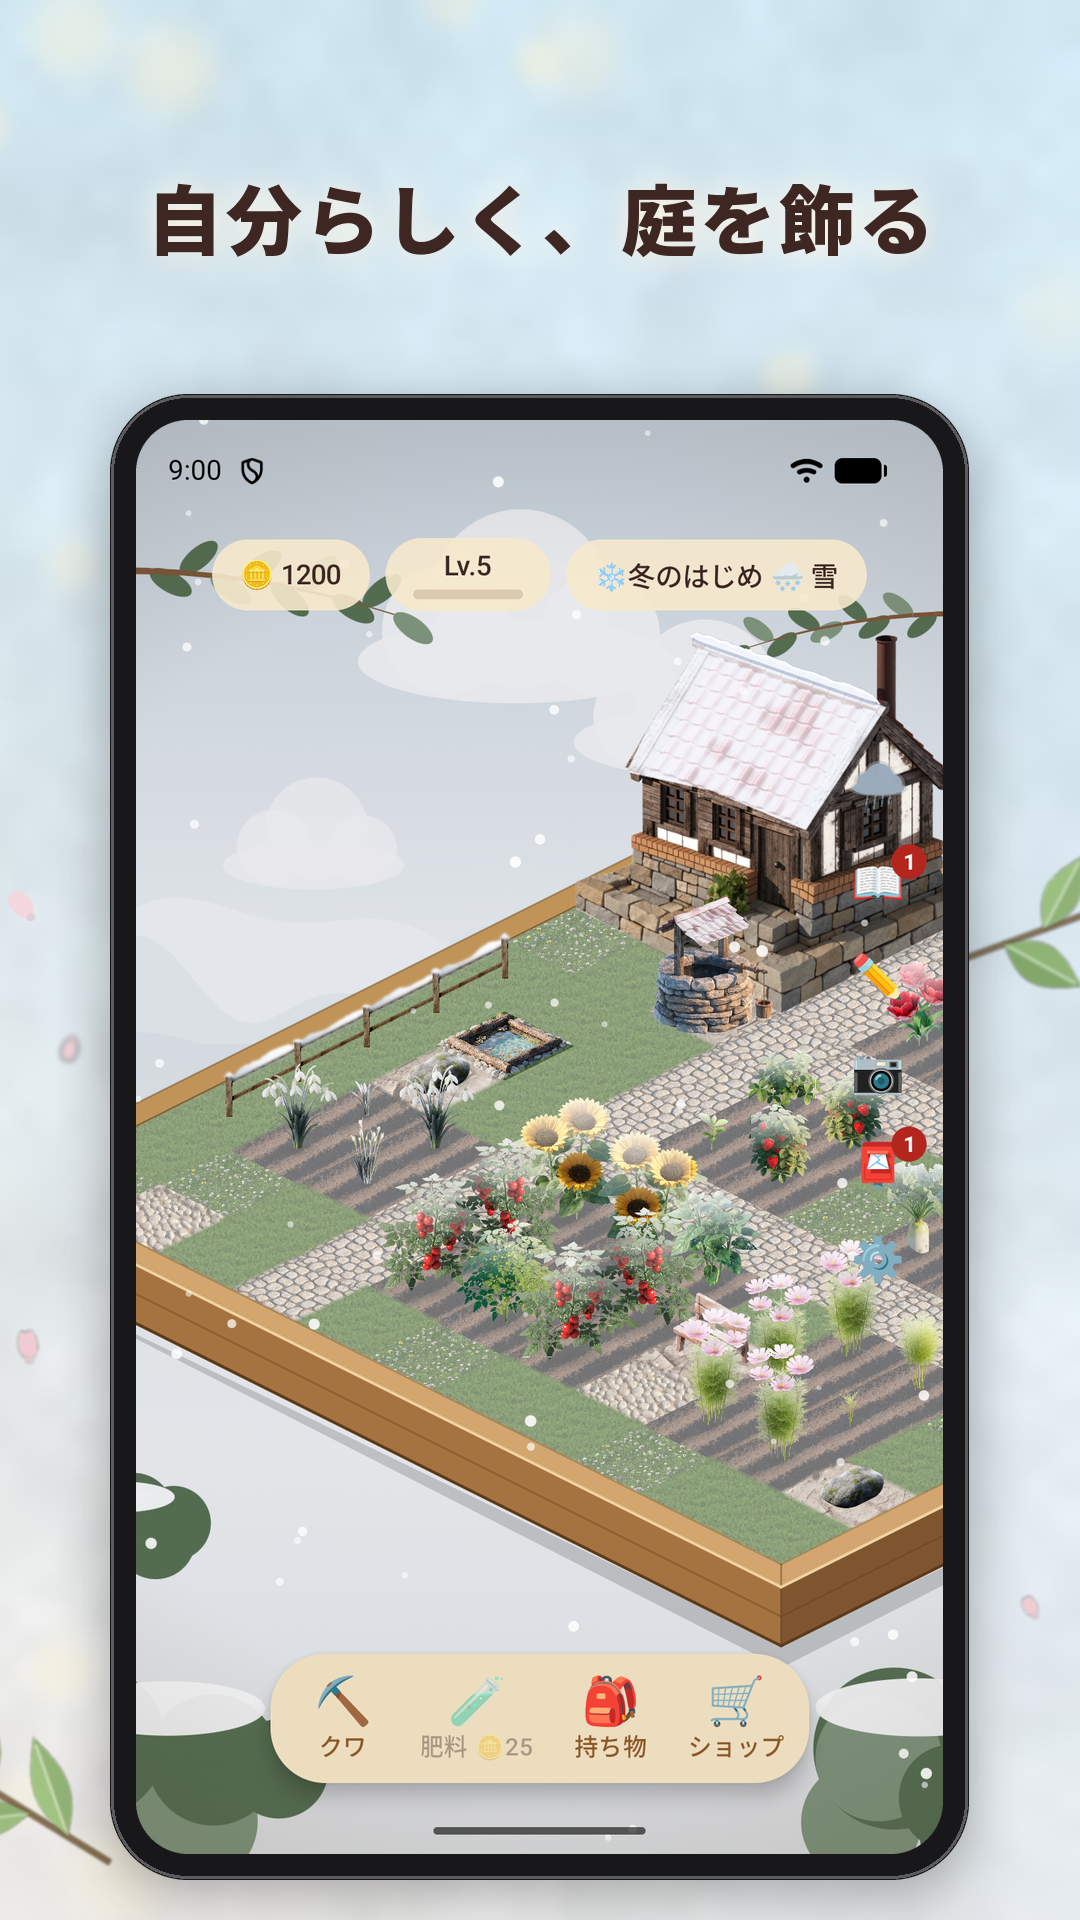
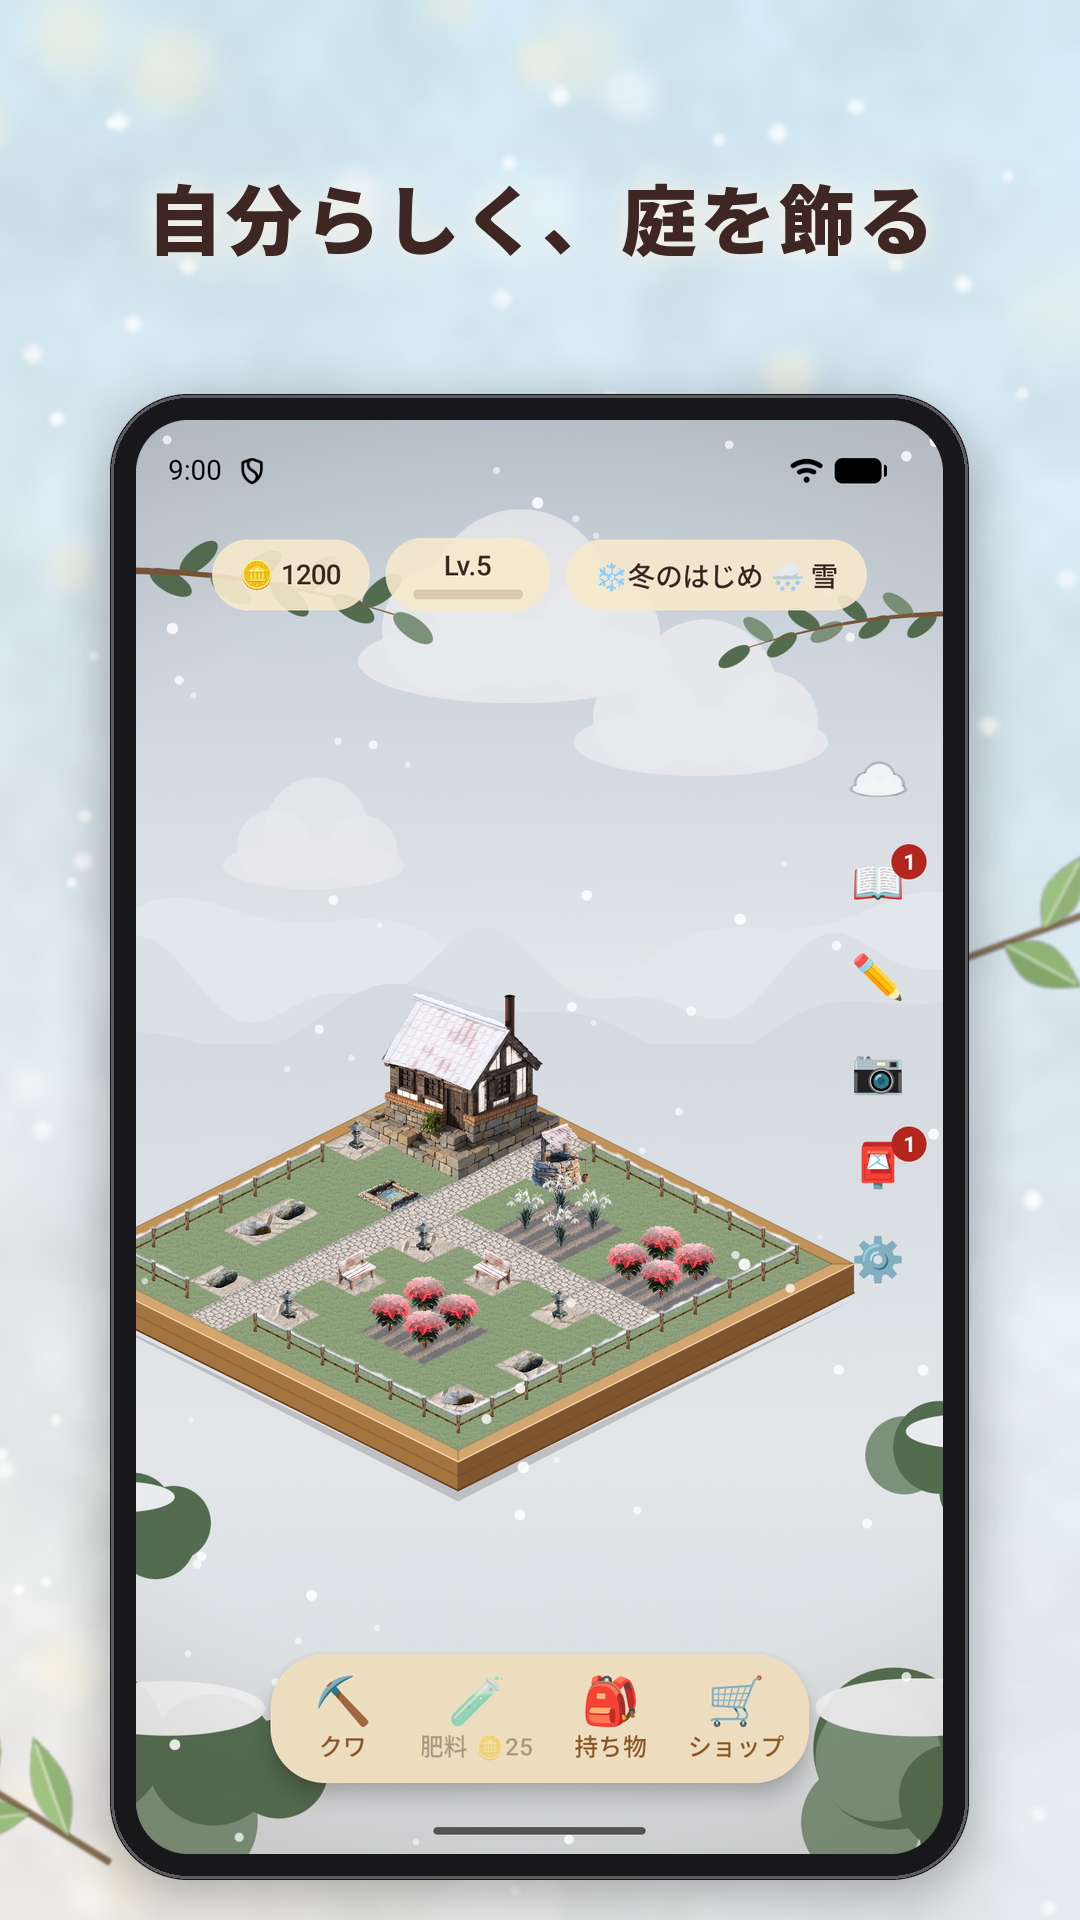
ストア画像：06 を冬の飾りの庭に（スノードロップ・ポインセチアだけ、柵・ベンチ・石灯籠・岩・井戸が主役、右のアイコンに重ならない）、背景は花びらの代わりに雪。Play 用アイコン icon_512.png

diff --git a/app/src/debug/java/com/studioguu/miniaturegarden/debug/ShowcaseGarden.kt b/app/src/debug/java/com/studioguu/miniaturegarden/debug/ShowcaseGarden.kt
@@ -185,4 +185,64 @@ object ShowcaseGarden {
 
     /** The cells of [soilRow], left to right on the screen: each a step right and a step up from the last. */
     val SOIL_ROW: List<GridCell> = listOf(GridCell(4, 6), GridCell(5, 5), GridCell(6, 4))
+
+    /**
+     * A winter yard (`--es garden winter`, the store's screenshot of decorating): the things a
+     * player puts out as the stars (fences, benches, lanterns, rocks, the well, a pond) and only a
+     * few beds of what grows in winter, snowdrops and poinsettias. No hakusai (it is not shown
+     * before it is found).
+     *
+     *     y\x 0 1 2 3 4 5 6 7 8 9 10
+     *      0  C C C # F F F F F F F      C cottage, W well, P pond, b bench, l lantern, o rock,
+     *      1  C C C # W . . . . . F      r flat rock, N snowdrop, X poinsettia, # paving, F fence
+     *      2  C C C # . N N . X X F
+     *      3  l . . # . N N . X X F
+     *      4  F . P # # # # # # # F
+     *      5  F . . # l . b . l . F
+     *      6  F o . # . . . . . . F
+     *      7  F r . # b . X X . o F
+     *      8  F . . # . . X X . . F
+     *      9  F . o # l . . . . r F
+     *     10  F F F # F F F F F F F
+     */
+    fun winterYard(now: Long): List<GridObject> {
+        fun at(cell: GridCell, objectId: String, growth: Float = 0f, flipped: Boolean = false) = GridObject(
+            instanceId = "winter_${objectId}_${cell.x}_${cell.y}",
+            gridX = cell.x,
+            gridY = cell.y,
+            objectId = objectId,
+            growthProgress = growth,
+            isFlipped = flipped,
+            lastUpdatedTimestamp = now,
+        )
+        fun at(x: Int, y: Int, objectId: String, flipped: Boolean = false) = at(GridCell(x, y), objectId, flipped = flipped)
+        val beds = cells(5..6, 2..3).map { it to PlantSpecies.SNOWDROP } +
+            cells(8..9, 2..3).map { it to PlantSpecies.POINSETTIA } +
+            cells(6..7, 7..8).map { it to PlantSpecies.POINSETTIA }
+        val paths = cells(3..3, 0..10) + cells(4..9, 4..4)
+        val fences = cells(4..10, 0..0) + cells(10..10, 1..10) + cells(0..0, 4..10) + cells(1..9, 10..10).filter { it.x != 3 }
+        val things = listOf(
+            at(0, 0, StructureData.COTTAGE.objectId),
+            at(4, 1, StructureData.WELL.objectId),
+            at(2, 4, GridObject.POND_OBJECT_ID),
+            at(6, 5, "deco_bench"),
+            at(4, 7, "deco_bench", flipped = true),
+            at(0, 3, "deco_lantern"),
+            at(4, 5, "deco_lantern"),
+            at(8, 5, "deco_lantern"),
+            at(4, 9, "deco_lantern"),
+            at(1, 6, "deco_rock"),
+            at(9, 7, "deco_rock"),
+            at(2, 9, "deco_rock"),
+            at(1, 7, "deco_rock_flat"),
+            at(9, 9, "deco_rock_flat"),
+        )
+        val placed = paths.map { at(it, GridObject.COBBLESTONE_OBJECT_ID) } +
+            fences.map { at(it, GridObject.FENCE_OBJECT_ID) } +
+            beds.map { (cell, _) -> at(cell, GridObject.TILLED_SOIL_OBJECT_ID) } +
+            beds.map { (cell, species) -> at(cell, species.objectId, growth = 1f, flipped = (cell.x + cell.y) % 2 == 0) } +
+            things
+        val taken = placed.filter { it.objectId != GridObject.FENCE_OBJECT_ID }.flatMap { it.occupiedCells() }.toSet()
+        return placed + cells(0 until SIZE, 0 until SIZE).filter { it !in taken }.map { at(it, "ground_grass", growth = 1f) }
+    }
 }

diff --git a/app/src/debug/java/com/studioguu/miniaturegarden/debug/ShowcaseReceiver.kt b/app/src/debug/java/com/studioguu/miniaturegarden/debug/ShowcaseReceiver.kt
@@ -50,6 +50,7 @@ import kotlinx.coroutines.launch
  *         --es bird struct_well               # a bird comes now to the well (or struct_cottage, onto its roof)
  *         --ez side_only true --ez skip_ad true   # only the buttons down the right edge; the cloud's rain without the ad
  *         --es garden thirsty                 # ... [ShowcaseGarden] with every crop half watered (all glint after a rain), with load
+ *         --es garden winter                  # ... [ShowcaseGarden.winterYard]: fences, benches, lanterns, rocks, a few winter beds, with load
  *         --es garden spring                  # ... [ShowcaseGarden] with spring's crops (tulips, strawberries, mint), with load
  *         --es garden tulips                  # ... [ShowcaseGarden] with a bed of tulips in bloom (ordinary colours), with load
  *         --es garden soilrow                 # ... [ShowcaseGarden.soilRow], three empty beds of each grade side by side, with load
@@ -207,6 +208,7 @@ class ShowcaseReceiver : BroadcastReceiver() {
                     garden == "birdcrops" -> ShowcaseGarden.birdCrops(now)
                     garden == "soilrow" -> ShowcaseGarden.soilRow(now)
                     garden == "thirsty" -> ShowcaseGarden.objects(now, thirsty = true, roof = roof, wall = wall)
+                    garden == "winter" -> ShowcaseGarden.winterYard(now)
                     garden == "spring" -> ShowcaseGarden.objects(now, spring = true, roof = roof, wall = wall)
                     garden == "tulips" -> ShowcaseGarden.objects(now, tulipBed = true, roof = roof, wall = wall)
                     garden == "till" -> ShowcaseGarden.objects(now, bare = ShowcaseGarden.OPEN_ROW, roof = roof, wall = wall)

diff --git a/tools/store_art/store_art.py b/tools/store_art/store_art.py
@@ -456,12 +456,21 @@ def panorama(config: dict, count: int) -> Image.Image:
         else:
             sprig(layer, x + 110, h * 0.97, math.pi + 0.55, 0.95 * sc, palette, rng, blur=1.2)
     petal = rgb(palette["petal"])
+    snowy = set(config["screenshots"].get("snow", []))
     for k in range(count):
         for _ in range(4):
             x = k * w + rng.choice([rng.uniform(10, 110), rng.uniform(w - 110, w - 10)])
-            draw_petal(layer, x, rng.uniform(h * 0.25, h * 0.95), rng.uniform(14, 22), rng.uniform(0, 6.28),
-                       mix(petal, (255, 255, 255), rng.uniform(0, 0.3)), blur=rng.choice([0, 1.5, 3]))
+            y = rng.uniform(h * 0.25, h * 0.95)
+            r, a, colour, blur = rng.uniform(14, 22), rng.uniform(0, 6.28), mix(petal, (255, 255, 255), rng.uniform(0, 0.3)), rng.choice([0, 1.5, 3])
+            # Winter's pictures (`screenshots.snow`) have no petals in the air.
+            if k + 1 not in snowy:
+                draw_petal(layer, x, y, r, a, colour, blur=blur)
     img.alpha_composite(layer)
+    # Snow on them instead: soft white flakes all over, a few large and out of focus.
+    for n in snowy:
+        area = ((n - 1) * w, 0, n * w, h)
+        light_specks(img, rng, 70, (255, 255, 255), (4, 9), area=area, alpha_range=(0.55, 0.9))
+        light_specks(img, rng, 14, (255, 255, 255), (14, 26), area=area, alpha_range=(0.25, 0.45))
     return img.convert("RGB")
 
 

diff --git a/docs/release/README.md b/docs/release/README.md
@@ -3,7 +3,7 @@
 | もの | 場所 |
 |---|---|
 | データセーフティの一覧 | `data_safety.md` |
-| ストア画像 | `store/feature_graphic.png`、`store/screenshot_01〜06.png`（作り方は `tools/store_art/README.md`） |
+| ストア画像 | `store/feature_graphic.png`、`store/screenshot_01〜06.png`、`store/icon_512.png`（アプリのアイコン、`tools/prepare_app_icon.py` が `docs/store/` に書き出すものの写し）（作り方は `tools/store_art/README.md`） |
 | AAB | `app/build/outputs/bundle/release/app-release.aab`（`./gradlew bundleRelease`、コミットしない） |
 
 ## 署名（アップロード鍵）
